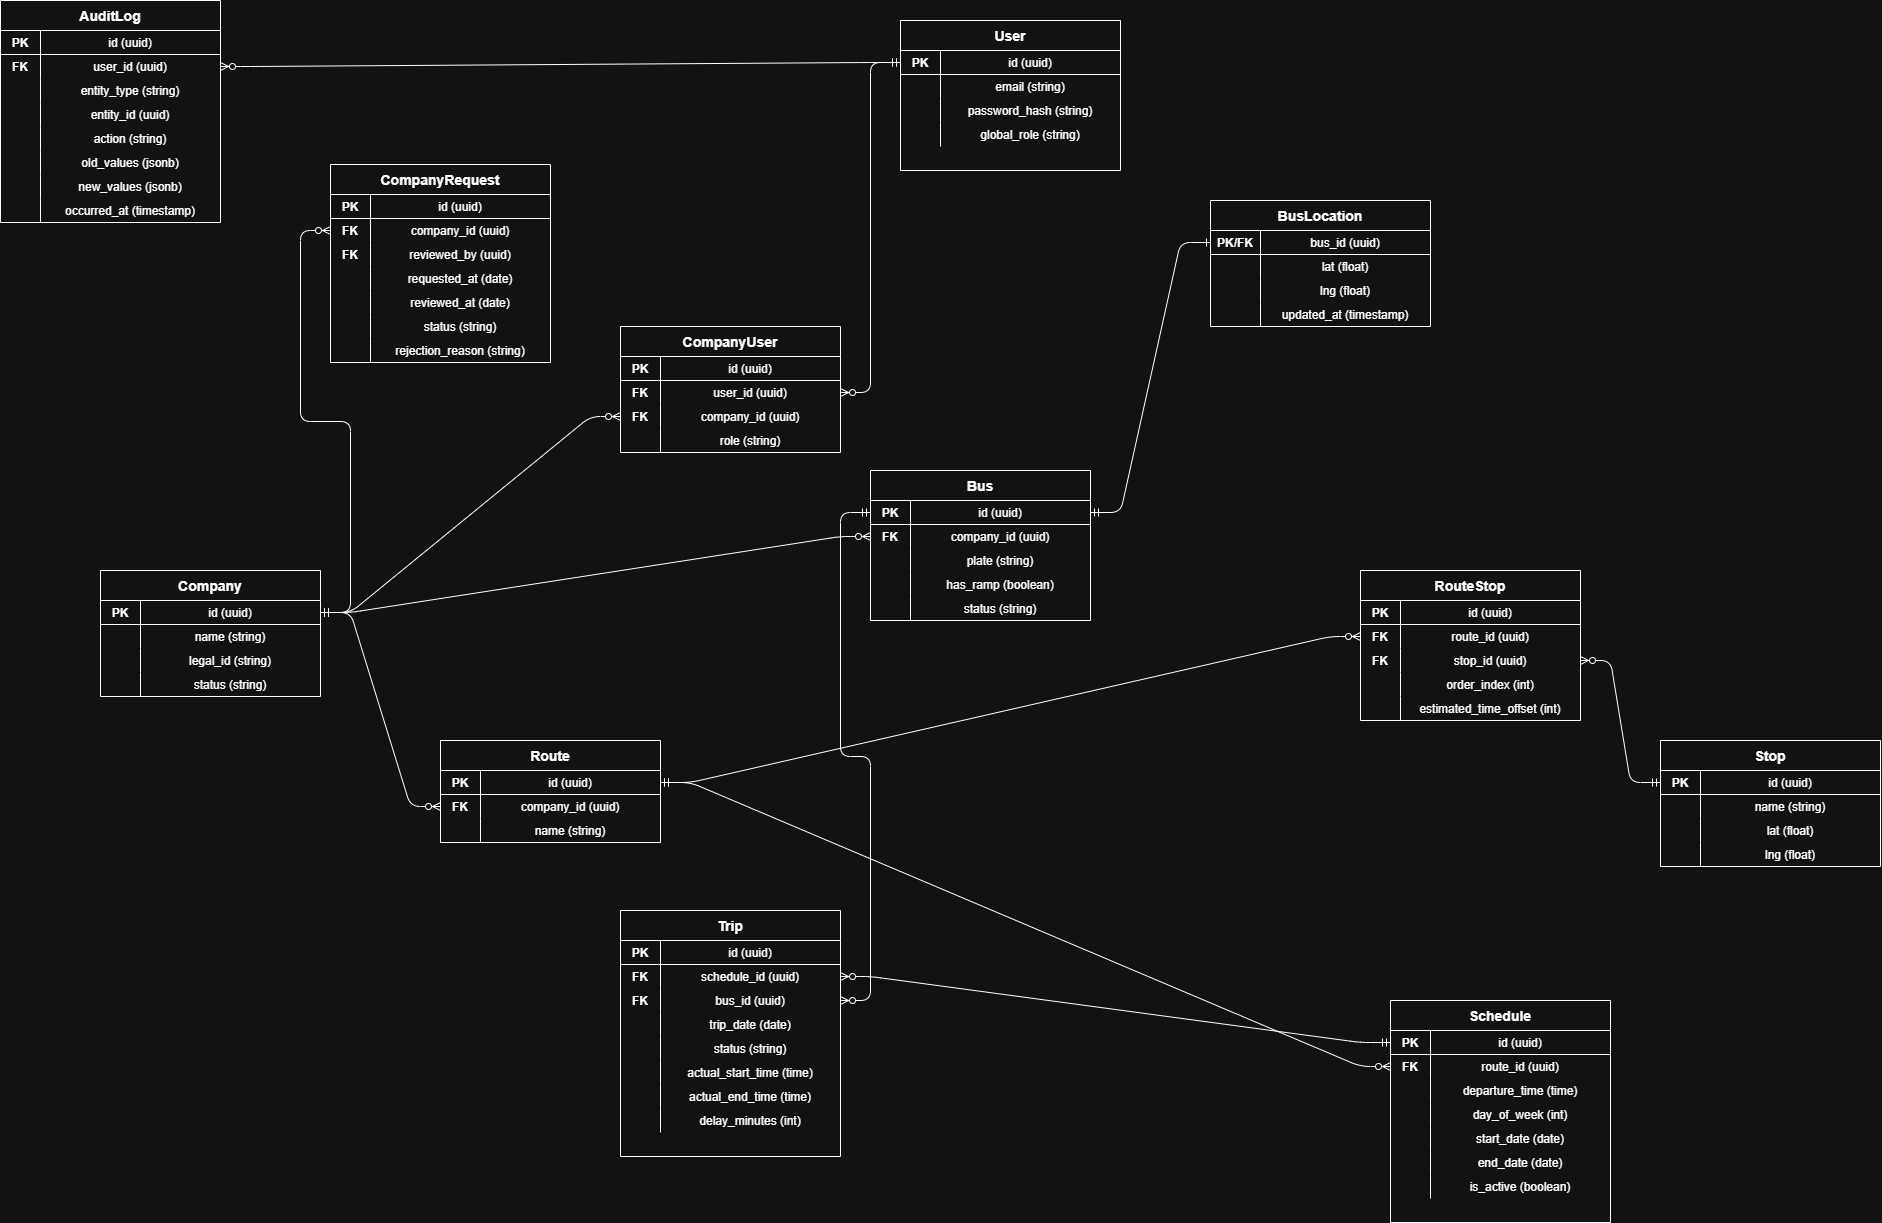
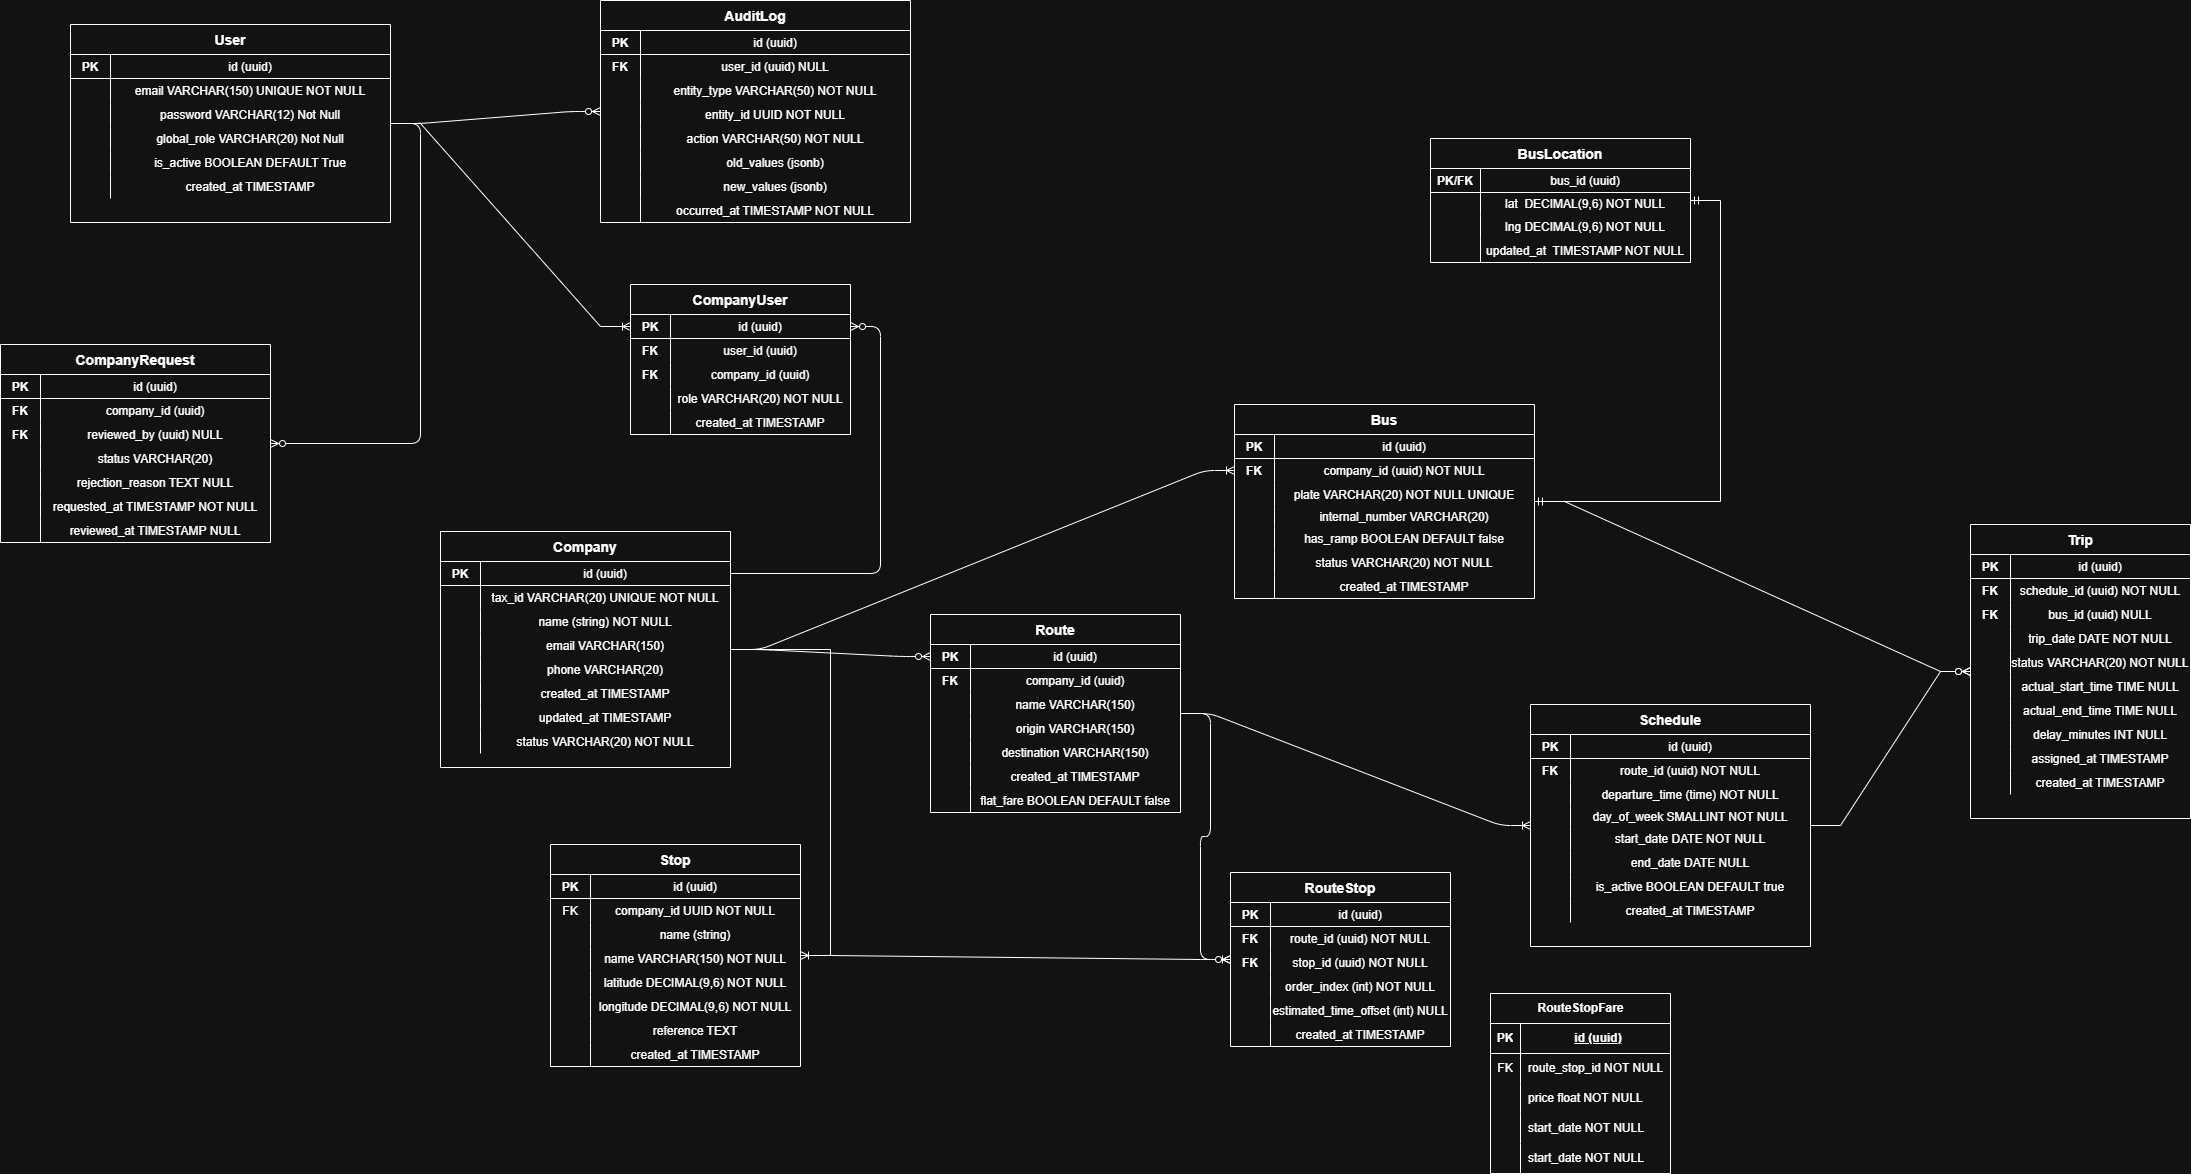
ER Model - Updated

diff --git a/docs/database/contraints.md b/docs/database/contraints.md
@@ -207,6 +207,12 @@ Trip     → lo que realmente pasó
 UNIQUE (route_id, order_index)
 ```
 
+### RouteStopFare Special Table
+
+
+
+
+
 ---
 
 ### Separación de responsabilidades
